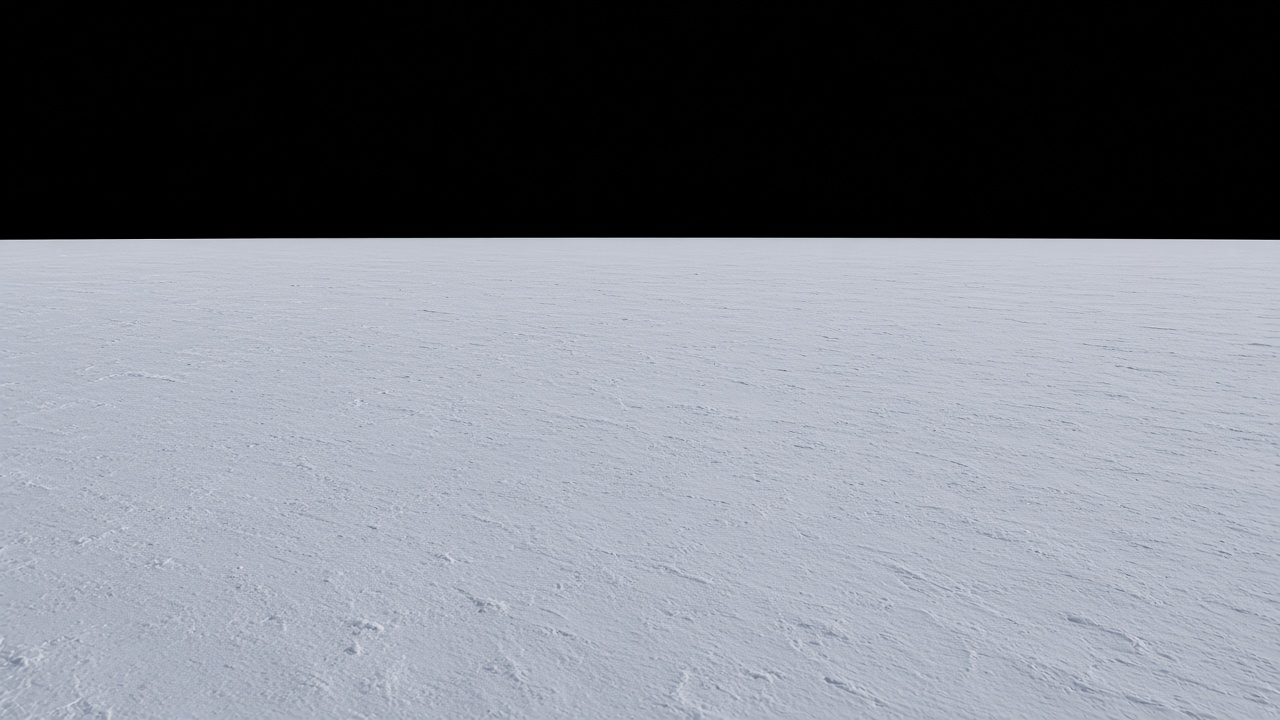
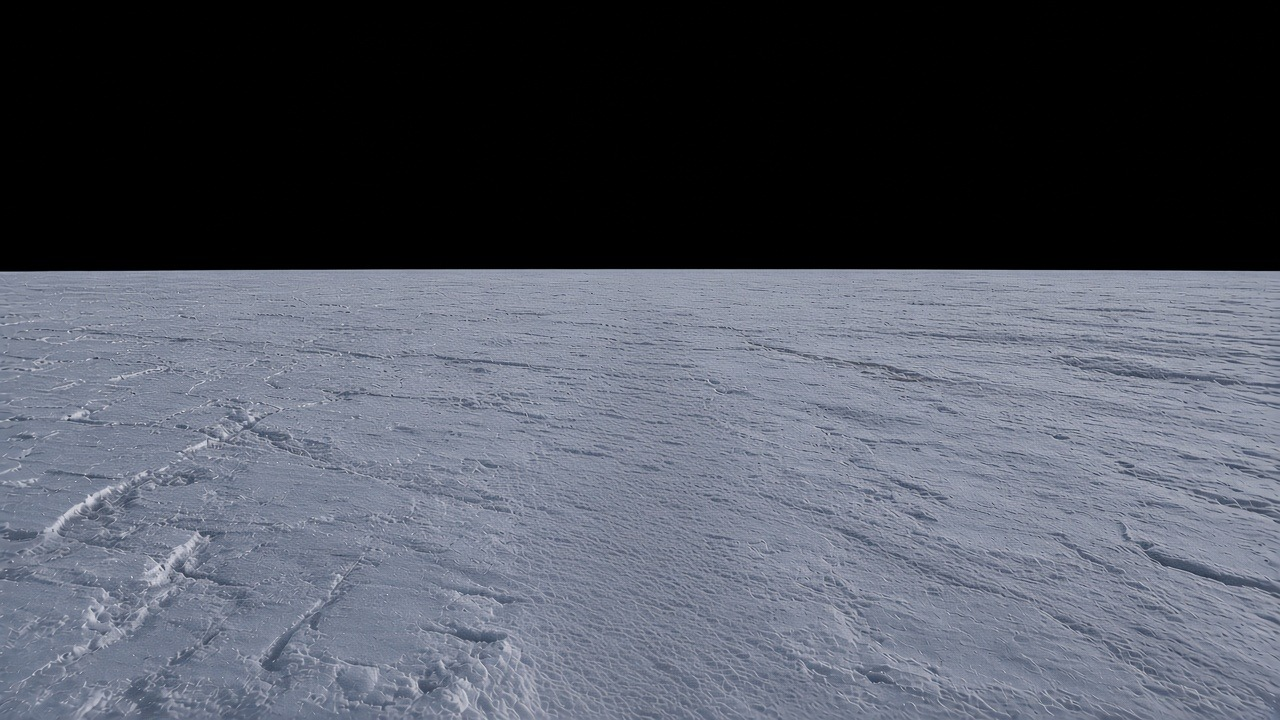
Ridge r7: new back picture, wide feathers, static soft haze

diff --git a/surface/src/main.js b/surface/src/main.js
@@ -408,12 +408,12 @@ scene.add(ground);
 // Shared: ground, sky, lights. Per-location: features + high-res textures.
 /* version labels: shown on the desktop HUD and in the headset (look down for the scene menu).
  * Bump BUILD and the scene's entry whenever a scene's pictures or wiring change. */
-const BUILD = 'Build Oct 31 r6';
+const BUILD = 'Build Oct 31 r7';
 { const b = document.querySelector('#hud .build'); if (b) b.textContent = BUILD; }
 const SCENE_VER = {
   'open-ice': 'v5 clean edges',
   crevasse: 'v2 4-panel',
-  ridge: 'v7 haze, matched front',
+  ridge: 'v8 static haze, one texture',
   chaos: 'v3 Imagine, soft seams',
   fissure: 'v2 Imagine back',
   cavern: 'v1 jellies'
@@ -518,16 +518,17 @@ function addHaze(group, def, o) {
     vertexShader: `varying vec2 vUv; void main(){ vUv = vec2(1.0 - uv.x, uv.y); gl_Position = projectionMatrix * modelViewMatrix * vec4(position,1.0); }`,
     fragmentShader: `
       varying vec2 vUv; uniform float uTime, uAlpha, uSpeed, uStretch, uHorizon; uniform vec3 uCol;
-      float h(vec2 p){ return fract(sin(dot(p, vec2(127.1, 311.7))) * 43758.5453); }
-      float n(vec2 p){ vec2 i = floor(p), f = fract(p); f = f*f*(3.0-2.0*f);
+      float h(vec2 p){ vec3 q = fract(vec3(p.xyx) * 0.1031); q += dot(q, q.yzx + 33.33); return fract((q.x + q.y) * q.z); }   // sin-free hash: stable on mobile GPUs
+      float n(vec2 p){ vec2 i = floor(p), f = fract(p); f = f*f*f*(f*(f*6.0-15.0)+10.0);
         return mix(mix(h(i), h(i+vec2(1,0)), f.x), mix(h(i+vec2(0,1)), h(i+vec2(1,1)), f.x), f.y); }
-      float fbm(vec2 p){ float a = 0.5, s = 0.0; for(int i=0;i<4;i++){ s += a*n(p); p = p*2.03 + 7.1; a *= 0.5; } return s; }
+      float fbm(vec2 p){ float a = 0.5, s = 0.0; mat2 r = mat2(0.8, -0.6, 0.6, 0.8); for(int i=0;i<4;i++){ s += a*n(p); p = r*p*2.03 + 7.1; a *= 0.5; } return s; }
       void main() {
         // streaks: noise stretched along the wind (horizontal), drifting, with a second slower layer moving a little faster/slower for shear
-        vec2 p1 = vec2(vUv.x * 5.0 - uTime * uSpeed * 6.0, vUv.y * uStretch);
-        vec2 p2 = vec2(vUv.x * 9.0 - uTime * uSpeed * 10.0 + 3.7, vUv.y * uStretch * 1.7 + 1.3);
+        vec2 w = vec2(n(vUv * vec2(3.0, 5.0)), n(vUv * vec2(4.0, 3.0) + 9.0)) - 0.5;   // domain warp so the cells never line up as squares
+        vec2 p1 = vec2(vUv.x * 5.0 + w.x * 1.6, vUv.y * uStretch + w.y * 2.0);
+        vec2 p2 = vec2(vUv.x * 9.0 + 3.7 - w.y * 2.0, vUv.y * uStretch * 1.7 + 1.3 + w.x * 2.0);
         float d = fbm(p1) * 0.65 + fbm(p2) * 0.35;
-        float streak = smoothstep(0.38, 0.78, d);
+        float streak = smoothstep(0.30, 0.90, d);
         // brushed edge: the veil thins into streaks along its rim rather than a smooth fade
         float env = smoothstep(0.0, 0.28, vUv.x) * smoothstep(1.0, 0.72, vUv.x);
         float rim = mix(1.0, streak, 1.0 - env);
@@ -543,7 +544,7 @@ function addHaze(group, def, o) {
   m.position.set(def.pos.x, (def.playerY || 0) + EYE + (yTop + yBot) / 2, def.pos.z);
   m.rotation.y = -THREE.MathUtils.degToRad(o.yawDeg || 0);
   m.renderOrder = 14; m.frustumCulled = false;
-  m.onBeforeRender = () => { mat.uniforms.uTime.value = performance.now() / 1000; };
+  // static on purpose: no drift, so it never reads as a rotating carousel
   group.add(m);
 }
 async function loadPanel(m) {
@@ -698,9 +699,9 @@ registerLocation({
     const key = { keySky: true, keyLo: 0.012, keyHi: 0.022 };
     addVista(group, this, { vistas: [
       { ...key, url: './assets/vistas/ridge-front.jpg?v=7', yawDeg: 0,   arcDeg: 116, horizon: 0.374, keyBand: [0.63, 0.66], order: 12, sideFade: [0.2, 0.2], bottomFade: 0.02, bright: 0.88 },
-      { ...key, url: './assets/vistas/ridge-right.jpg', yawDeg: 75,  arcDeg: 116, horizon: 0.378, keyBand: [0.63, 0.66], order: 11, sideFade: [0.008, 0.08], bottomFade: 0.02, bright: 0.88, cropL: 0.15 },
-      { ...key, url: './assets/vistas/ridge-left.jpg',  yawDeg: -75, arcDeg: 116, horizon: 0.338, keyBand: [0.65, 0.68], order: 11, sideFade: [0.08, 0.008], bottomFade: 0.02, bright: 1.0, cropR: 0.15 },
-      { ...key, url: './assets/vistas/ridge-back.jpg',  yawDeg: 180, arcDeg: 140, horizon: 0.332, keyBand: [0.66, 0.69], order: 10, sideFade: 0.008, bottomFade: 0.02, bright: 0.62, cropL: 0.08, cropR: 0.08 }
+      { ...key, url: './assets/vistas/ridge-right.jpg', yawDeg: 75,  arcDeg: 116, horizon: 0.378, keyBand: [0.63, 0.66], order: 11, sideFade: [0.008, 0.30], bottomFade: 0.02, bright: 0.88, cropL: 0.15 },
+      { ...key, url: './assets/vistas/ridge-left.jpg',  yawDeg: -75, arcDeg: 116, horizon: 0.338, keyBand: [0.65, 0.68], order: 11, sideFade: [0.30, 0.008], bottomFade: 0.02, bright: 1.0, cropR: 0.15 },
+      { ...key, url: './assets/vistas/ridge-back.jpg?v=7',  yawDeg: 180, arcDeg: 172, horizon: 0.374, keyBand: [0.63, 0.66], order: 10, sideFade: 0.008, bottomFade: 0.02, bright: 0.88 }
     ] });
     addHaze(group, this, { yawDeg: -46, arcDeg: 56, alpha: 0.7 });
     addHaze(group, this, { yawDeg: 46, arcDeg: 56, alpha: 0.34 });
